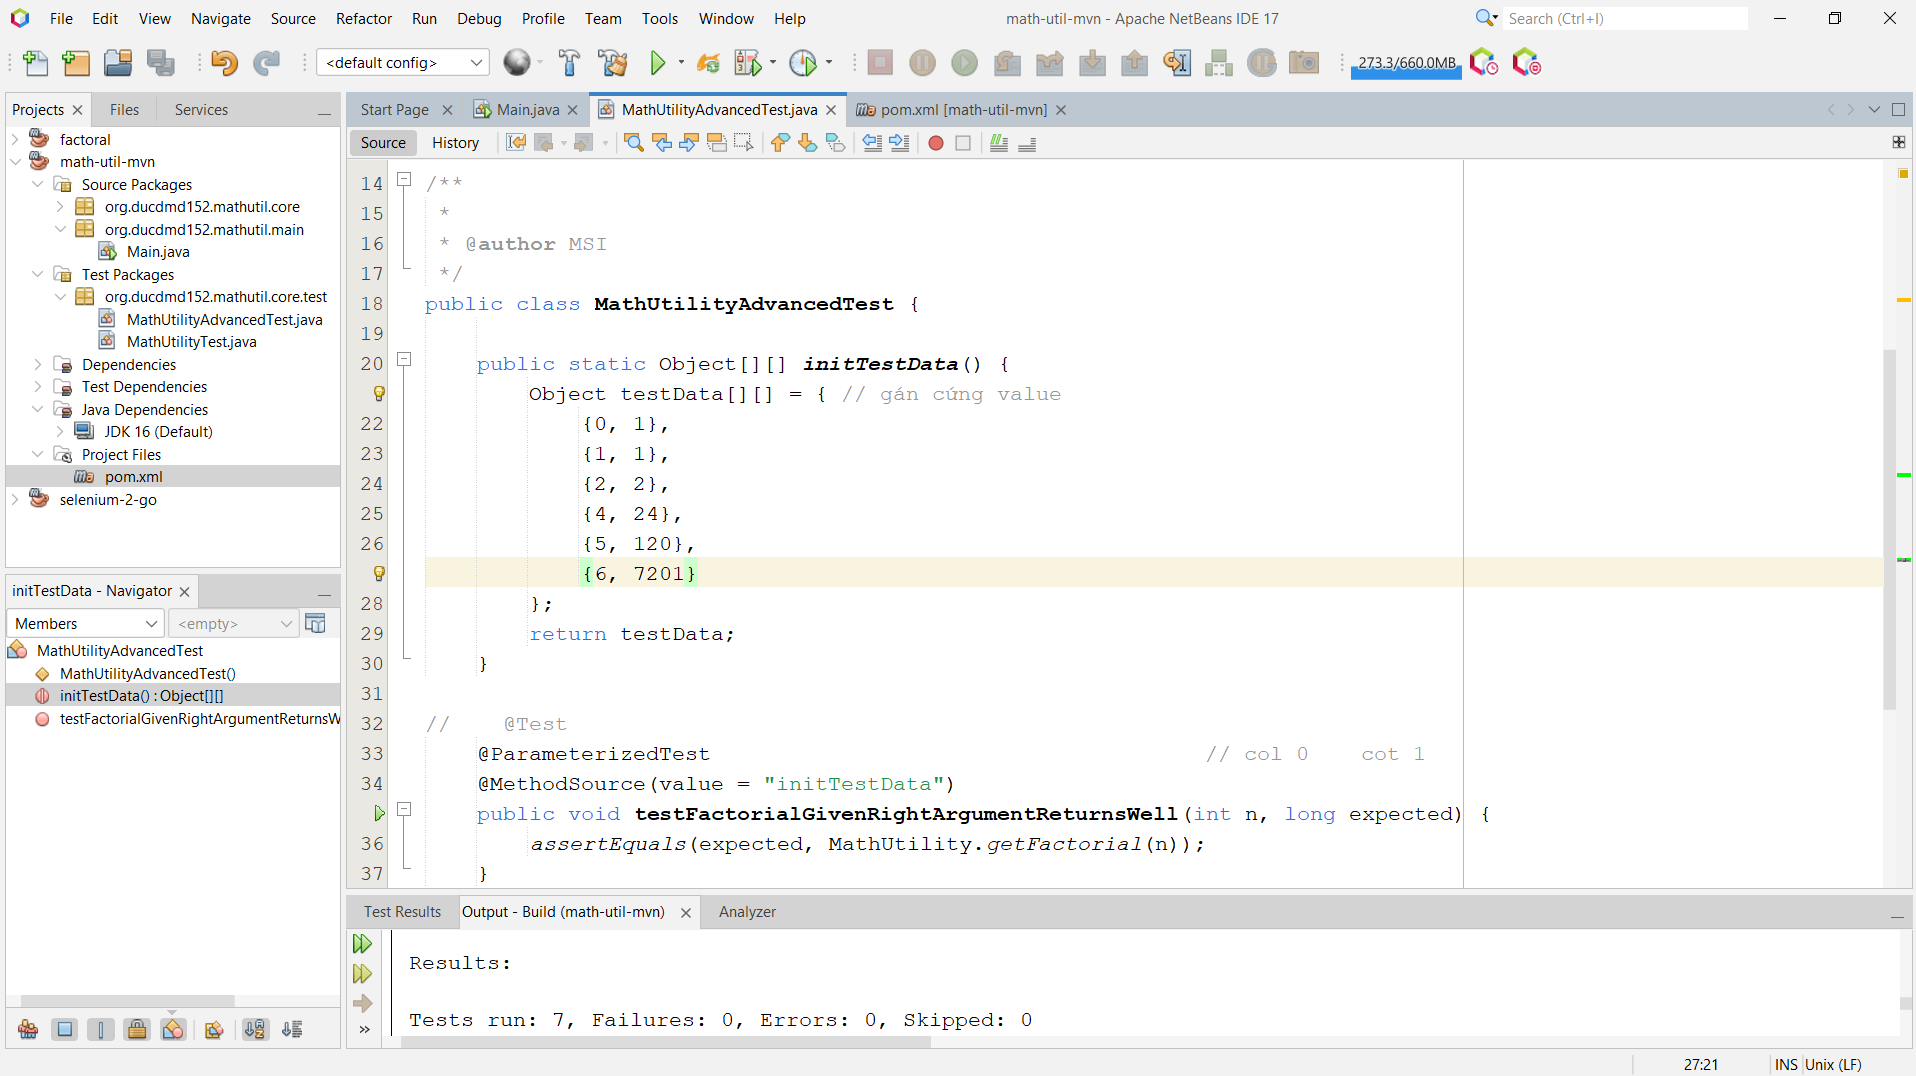
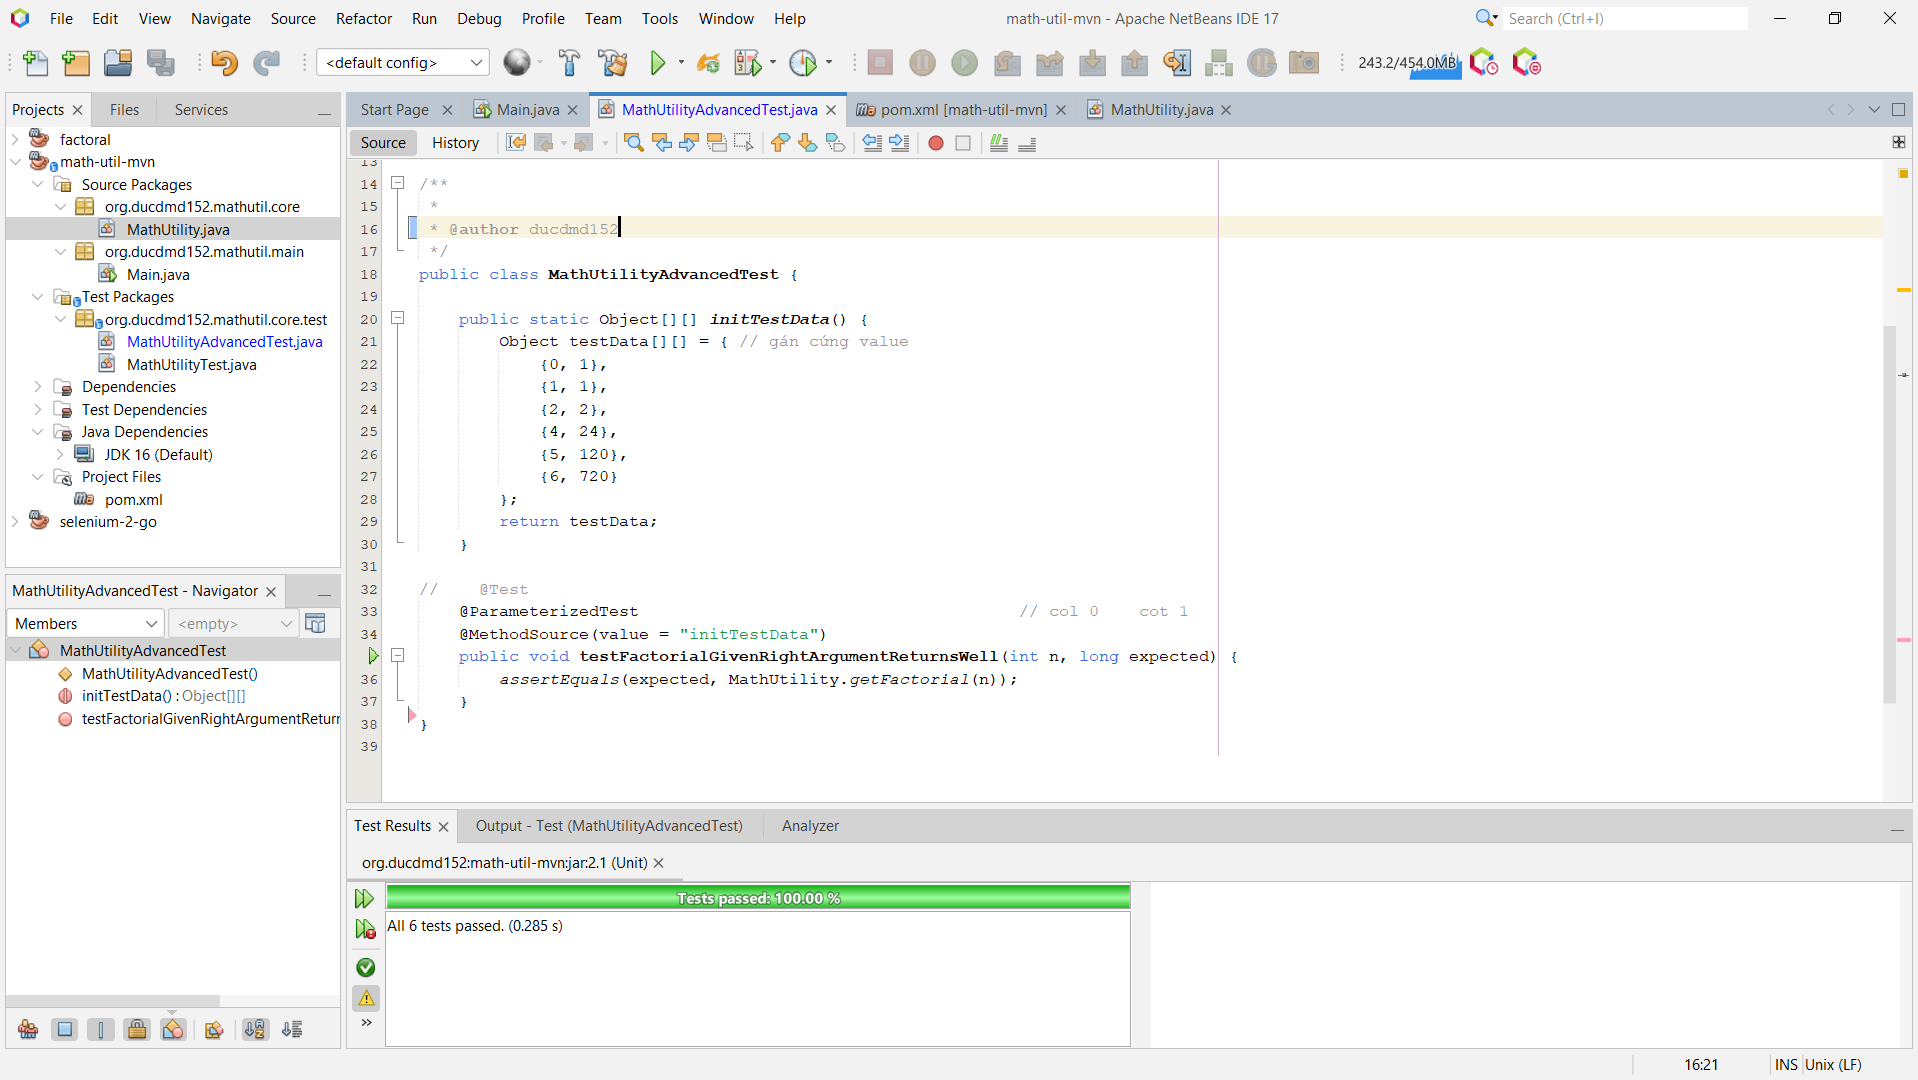
updated screenshots & readme.md

diff --git a/src/test/java/org/ducdmd152/mathutil/core/test/MathUtilityAdvancedTest.java b/src/test/java/org/ducdmd152/mathutil/core/test/MathUtilityAdvancedTest.java
@@ -13,7 +13,7 @@ import org.junit.jupiter.params.provider.MethodSource;
 
 /**
  *
- * @author MSI
+ * @author ducdmd152
  */
 public class MathUtilityAdvancedTest {
     
@@ -35,6 +35,4 @@ public class MathUtilityAdvancedTest {
     public void testFactorialGivenRightArgumentReturnsWell(int n, long expected) {
         assertEquals(expected, MathUtility.getFactorial(n));
     }
-    
-    
 }

diff --git a/README.md b/README.md
@@ -1,4 +1,4 @@
-[![Math Utility Repo using Maven, JUnit and CI (with GitHub Actions) | © 2023 ducdmd152](https://github.com/ducdmd152/math-util-mvn/actions/workflows/math-util-ci.yml/badge.svg)](https://github.com/ducdmd152/math-util-mvn/actions/workflows/math-util-ci.yml)
+[![Math Utility Repo using Maven, JUnit and CI (with GitHub Actions) © 2023 ducdmd152](https://github.com/ducdmd152/math-util-mvn/actions/workflows/math-util-ci.yml/badge.svg)](https://github.com/ducdmd152/math-util-mvn/actions/workflows/math-util-ci.yml)
 
 # Welcome to Math Utility Repository
 ### You will find in this repo...
